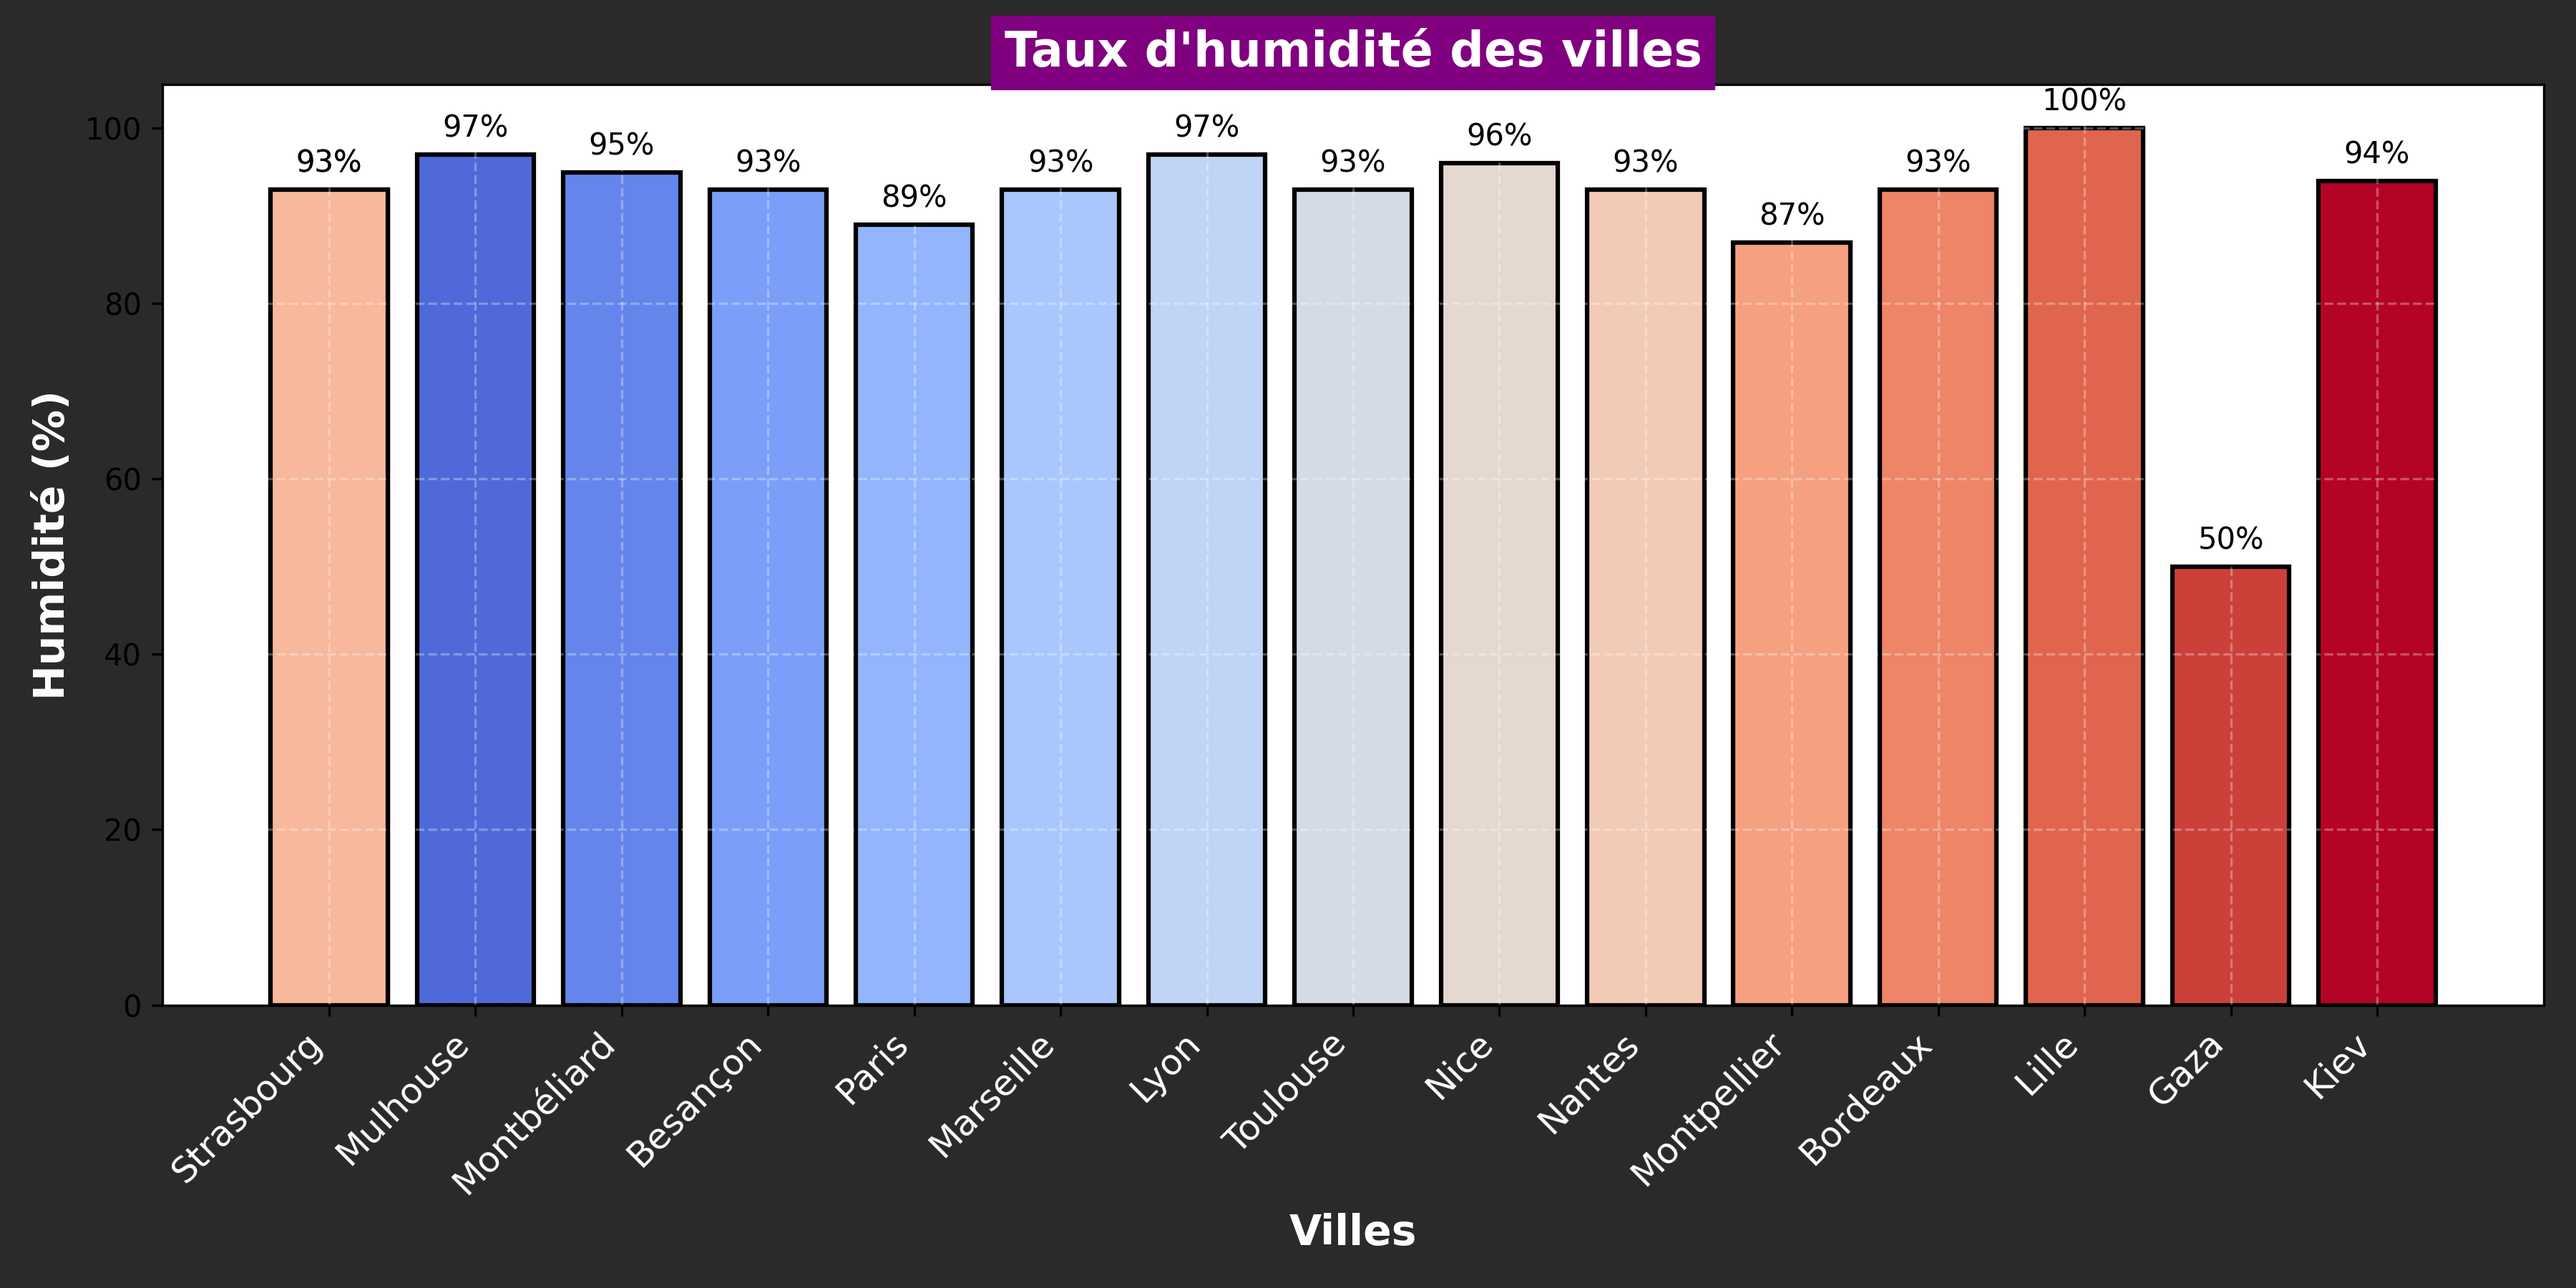
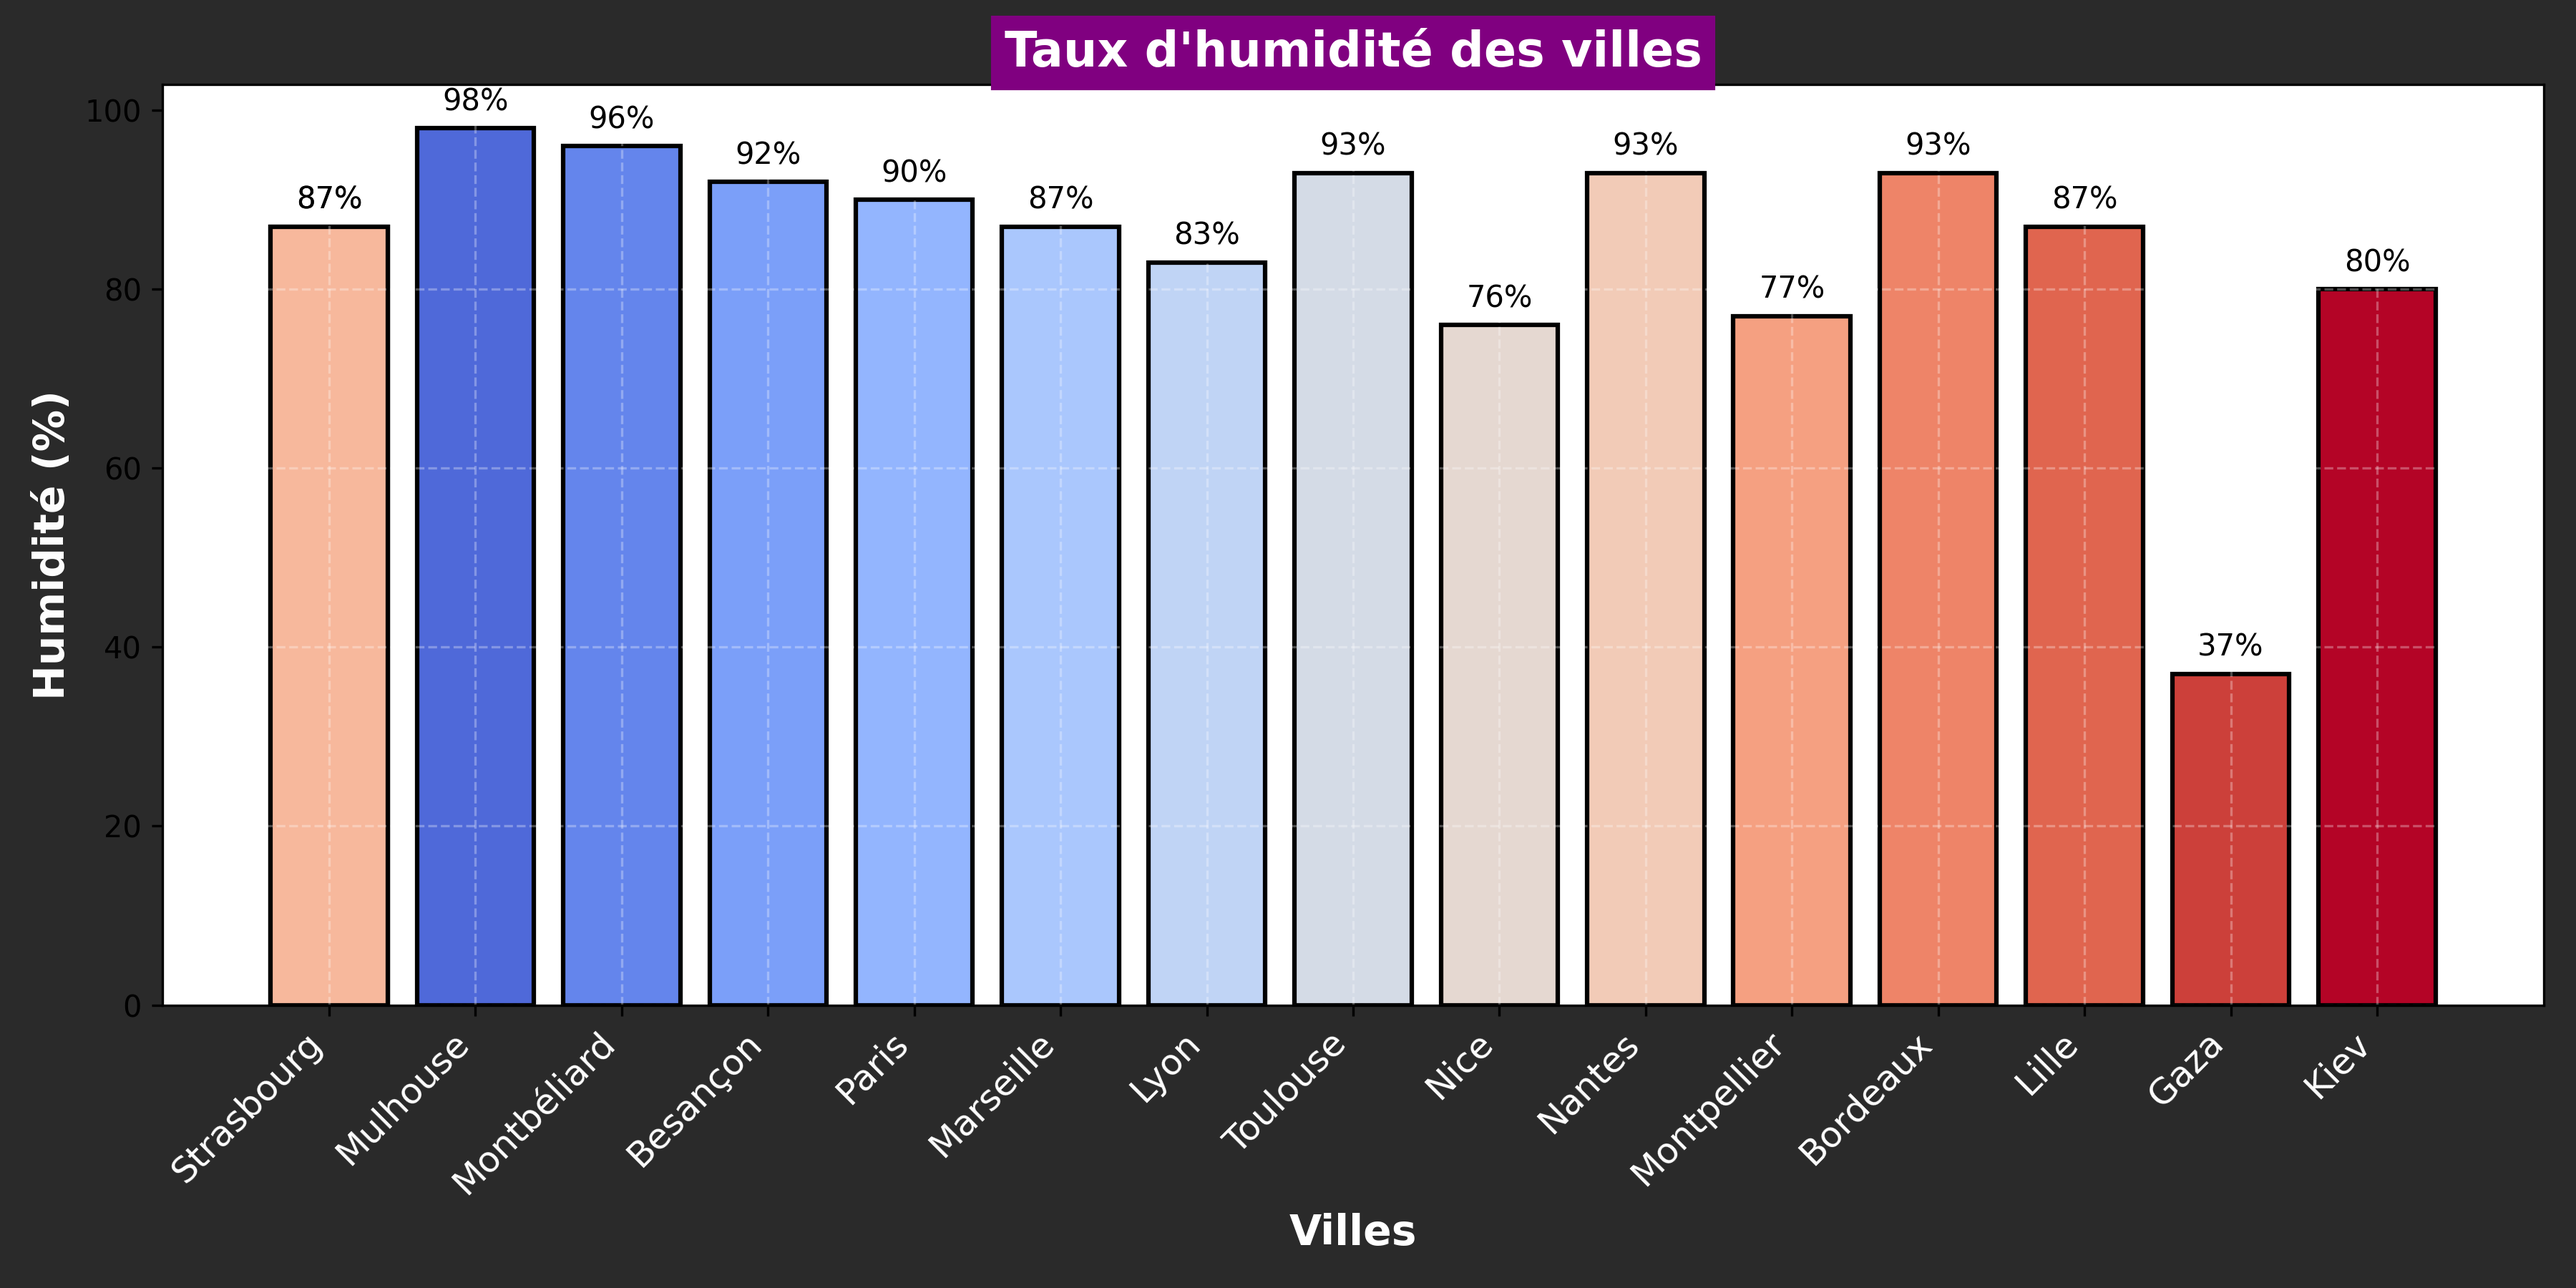
Mise à jour de la météo et ajout du graphique d'humidité

diff --git a/README.md b/README.md
@@ -24,103 +24,103 @@ Ce repo contient plusieurs workflows GitHub Actions :
 ## Météo actuelle :
 ## Météo des grandes villes + Gaza et Kiev 🌍
 
-🕒 Mise à jour : 12/03/2025 07:47:48
+🕒 Mise à jour : 13/03/2025 07:45:13
 
 ### 🌍 Strasbourg 🌧
-**Conditions :** pluie modérée
-**Température :** 6°C
-**Humidité :** 93%
-**Vent :** 5.14 m/s
-
-### 🌍 Mulhouse 🌧
-**Conditions :** pluie modérée
-**Température :** 6.98°C
-**Humidité :** 97%
-**Vent :** 1.54 m/s
-
-### 🌍 Montbéliard 🌧
-**Conditions :** pluie modérée
-**Température :** 7.77°C
-**Humidité :** 95%
-**Vent :** 2.06 m/s
-
-### 🌍 Besançon 🌧
 **Conditions :** légère pluie
-**Température :** 5.74°C
-**Humidité :** 93%
-**Vent :** 1.65 m/s
-
-### 🌍 Paris 🌥
-**Conditions :** couvert
-**Température :** 3.64°C
-**Humidité :** 89%
-**Vent :** 3.6 m/s
-
-### 🌍 Marseille 🌥
-**Conditions :** couvert
-**Température :** 9.26°C
-**Humidité :** 93%
-**Vent :** 2.68 m/s
-
-### 🌍 Lyon 🌥
-**Conditions :** couvert
-**Température :** 4.79°C
-**Humidité :** 97%
-**Vent :** 1.11 m/s
-
-### 🌍 Toulouse 🌧
-**Conditions :** légère pluie
-**Température :** 8.99°C
-**Humidité :** 93%
-**Vent :** 3.6 m/s
-
-### 🌍 Nice 🌥
-**Conditions :** couvert
-**Température :** 4.16°C
-**Humidité :** 96%
-**Vent :** 0.2 m/s
-
-### 🌍 Nantes 🌥
-**Conditions :** couvert
-**Température :** 5.96°C
-**Humidité :** 93%
-**Vent :** 2.06 m/s
-
-### 🌍 Strasbourg 🌧
-**Conditions :** pluie modérée
-**Température :** 6°C
-**Humidité :** 93%
-**Vent :** 5.14 m/s
-
-### 🌍 Montpellier 🌧
-**Conditions :** légère pluie
-**Température :** 8.71°C
+**Température :** 4.01°C
 **Humidité :** 87%
 **Vent :** 3.09 m/s
 
-### 🌍 Bordeaux ☀
+### 🌍 Mulhouse 🌫
+**Conditions :** brume
+**Température :** 4.59°C
+**Humidité :** 98%
+**Vent :** 2.06 m/s
+
+### 🌍 Montbéliard 🌥
+**Conditions :** couvert
+**Température :** 6.1°C
+**Humidité :** 96%
+**Vent :** 0.88 m/s
+
+### 🌍 Besançon 🌧
+**Conditions :** légère pluie
+**Température :** 3.51°C
+**Humidité :** 92%
+**Vent :** 3.44 m/s
+
+### 🌍 Paris ☀
 **Conditions :** ciel dégagé
-**Température :** 6.15°C
+**Température :** 3.22°C
+**Humidité :** 90%
+**Vent :** 3.09 m/s
+
+### 🌍 Marseille 🌥
+**Conditions :** partiellement nuageux
+**Température :** 6.95°C
+**Humidité :** 87%
+**Vent :** 3.97 m/s
+
+### 🌍 Lyon 🌥
+**Conditions :** peu nuageux
+**Température :** 3.03°C
+**Humidité :** 83%
+**Vent :** 1.07 m/s
+
+### 🌍 Toulouse 🌥
+**Conditions :** nuageux
+**Température :** 4.99°C
+**Humidité :** 93%
+**Vent :** 0.51 m/s
+
+### 🌍 Nice 🌥
+**Conditions :** peu nuageux
+**Température :** 1.94°C
+**Humidité :** 76%
+**Vent :** 2.4 m/s
+
+### 🌍 Nantes ☀
+**Conditions :** ciel dégagé
+**Température :** 0.96°C
 **Humidité :** 93%
 **Vent :** 1.54 m/s
 
+### 🌍 Strasbourg 🌧
+**Conditions :** légère pluie
+**Température :** 4.01°C
+**Humidité :** 87%
+**Vent :** 3.09 m/s
+
+### 🌍 Montpellier 🌧
+**Conditions :** légère pluie
+**Température :** 6.39°C
+**Humidité :** 77%
+**Vent :** 5.66 m/s
+
+### 🌍 Bordeaux 🌧
+**Conditions :** légère pluie
+**Température :** 4.15°C
+**Humidité :** 93%
+**Vent :** 1.03 m/s
+
 ### 🌍 Lille 🌥
 **Conditions :** nuageux
-**Température :** 2.15°C
-**Humidité :** 100%
-**Vent :** 1.54 m/s
+**Température :** 1.92°C
+**Humidité :** 87%
+**Vent :** 2.54 m/s
 
-### 🌍 Gaza ☀
-**Conditions :** ciel dégagé
-**Température :** 19.82°C
-**Humidité :** 50%
-**Vent :** 0.37 m/s
+### 🌍 Gaza 🌥
+**Conditions :** couvert
+**Température :** 24.08°C
+**Humidité :** 37%
+**Vent :** 6.54 m/s
 
 ### 🌍 Kiev 🌥
-**Conditions :** nuageux
-**Température :** 9.84°C
-**Humidité :** 94%
-**Vent :** 0.89 m/s
+**Conditions :** couvert
+**Température :** 10.4°C
+**Humidité :** 80%
+**Vent :** 0.45 m/s
 
 <p align='center'><img src='https://raw.githubusercontent.com/khoa083/khoa/main/Khoa_ne/img/Rainbow.gif' width='100%' style='border-radius: 5px; border: 3px solid #39FF14; box-shadow: 0 0 10px #39FF14, 0 0 20px #39FF14;' /></p>
 
